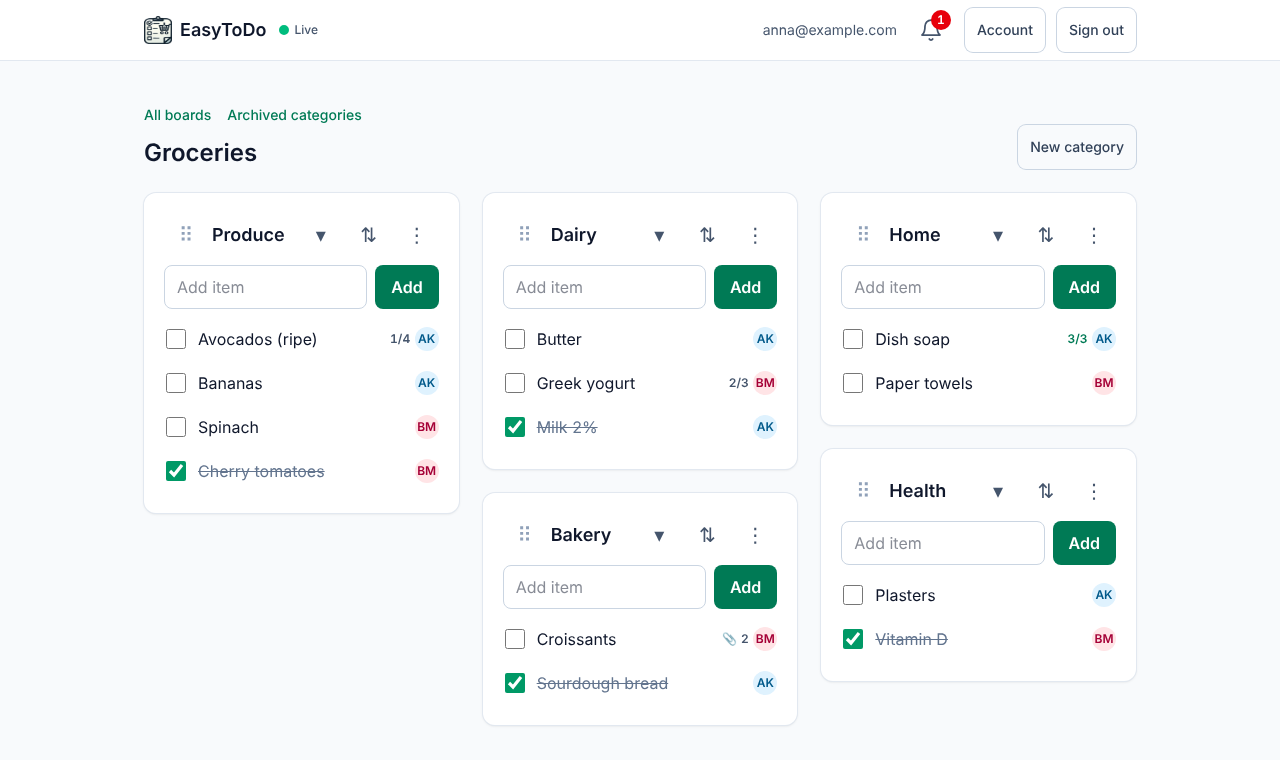
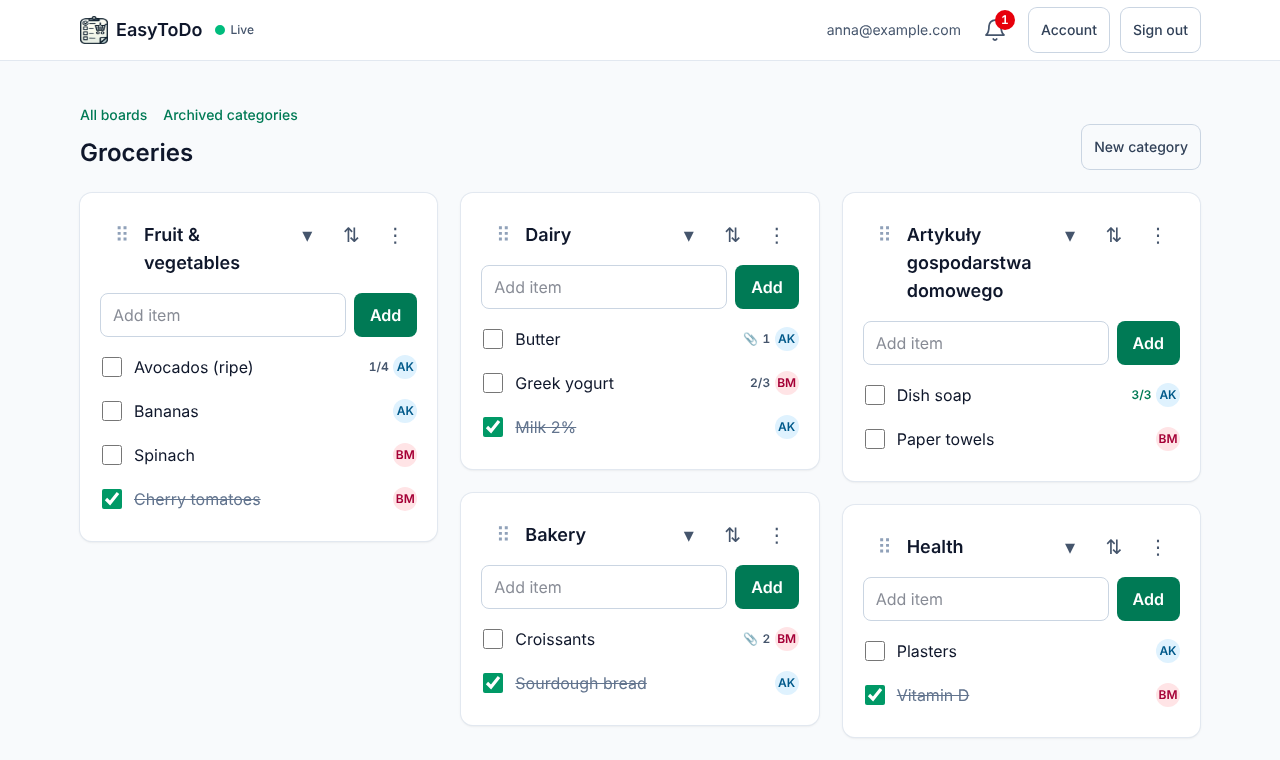
docs: correct the v2.1 checklist and limits; the upgrade test cleans up after a failed upgrade
- README: checklist step 13 (the owner's earlier items show the owner's circle
  once the board is shared), step 12 is self-contained; "Upgrading" item 6
  quotes the labels of the templates; the intro no longer reads as if v2.1 were
  the rewrite; the panel lists the newest 20 notifications; a checklist has up
  to 100 entries
- .env.example: the invite page is "Invite and members"
- performance.md: the spread of single runs is stated from the tables;
  sign-ups are limited per client IP address
- screenshots: a paperclip on the phone, longer category names on the desktop
- test_models: the v2.0 upgrade test leaves the shared database at head and
  empty even when 0002 cannot take the data
- test_docs: a setting needs a row of the Configuration table
- test_bench: all four failing steps of joining by invite are tested

Claude-Session: https://claude.ai/code/session_01DN6U6VMVrbyGTnmug7RrAg

diff --git a/backend/tests/test_bench.py b/backend/tests/test_bench.py
@@ -337,10 +337,14 @@ async def test_v2_event_latencies_name_the_board_and_item_on_a_timeout(monkeypat
 
 
 def _realistic_handler(
-    *, invite_form: dict, attachments: list[httpx.Request], accept_status: int = 303
+    *,
+    invite_form: dict,
+    attachments: list[httpx.Request],
+    answers: dict[tuple[str, str], httpx.Response] | None = None,
 ):
     """One server stub for the owner's, the second and the member's client: board 7 whose items
-    are numbered in the order they were added, the invite page of ``/invite/tok``."""
+    are numbered in the order they were added, the invite page of ``/invite/tok``. ``answers``
+    replaces the answer to a (method, path)."""
     sessions = iter(f"session-{n}" for n in range(1, 100))
     items: list[int] = []
 
@@ -350,13 +354,15 @@ def _realistic_handler(
         if request.method == "POST":  # what the browser sends on every change
             assert request.headers.get("x-csrf-token") == "csrf" or path in ("/login", "/register")
             assert request.headers["origin"] == "http://bench.test"
+        if answers and route in answers:
+            return answers[route]
         if route in {("GET", "/login"), ("GET", "/register")}:
             return httpx.Response(200, headers={"set-cookie": "easytodo_csrf=csrf; Path=/"})
         if route in {("POST", "/login"), ("POST", "/register")}:
             cookie = f"easytodo_session={next(sessions)}; Path=/"
             return httpx.Response(303, headers={"location": "/", "set-cookie": cookie})
         if route == ("POST", "/invite/tok/accept"):
-            return httpx.Response(accept_status, headers={"location": "/boards/7"})
+            return httpx.Response(303, headers={"location": "/boards/7"})
         if route == ("POST", "/boards"):
             return httpx.Response(303, headers={"location": "/boards/7"})
         if route == ("POST", "/boards/7/invites"):
@@ -440,8 +446,37 @@ async def test_v2_realistic_seed_shares_the_board_and_adds_checklists_and_attach
     assert attachments[0].headers["x-csrf-token"] == "csrf"
 
 
-async def test_v2_realistic_seed_names_the_failed_step_when_joining(monkeypatch):
-    handler = _realistic_handler(invite_form={}, attachments=[], accept_status=403)
+@pytest.mark.parametrize(
+    ("route", "answer", "message"),
+    [
+        pytest.param(
+            ("GET", "/register"),
+            httpx.Response(500),
+            r"Joining by invite: opening the sign-up page failed: HTTP 500",
+            id="sign-up page",
+        ),
+        pytest.param(
+            ("POST", "/register"),
+            httpx.Response(400),
+            r"Joining by invite: signing up failed: HTTP 400",
+            id="signing up",
+        ),
+        pytest.param(
+            ("POST", "/boards/7/invites"),
+            httpx.Response(201, text="<p>No link here</p>"),
+            r"The invite page shows no invite link",
+            id="no invite link",
+        ),
+        pytest.param(
+            ("POST", "/invite/tok/accept"),
+            httpx.Response(403),
+            r"Joining by invite: accepting the invite failed: HTTP 403",
+            id="accepting",
+        ),
+    ],
+)
+async def test_v2_realistic_seed_names_the_failed_step_when_joining(route, answer, message):
+    handler = _realistic_handler(invite_form={}, attachments=[], answers={route: answer})
     owner, _ = _recording_client(handler)
     second, _ = _recording_client(handler)
     member, _ = _recording_client(handler)
@@ -449,7 +484,7 @@ async def test_v2_realistic_seed_names_the_failed_step_when_joining(monkeypatch)
         target = bench.V2Target(
             owner, second, email="b@example.com", password="pw", member_client=member
         )
-        with pytest.raises(RuntimeError, match=r"accepting the invite.*HTTP 403"):
+        with pytest.raises(RuntimeError, match=f"^{message}$"):
             await target.seed(categories=1, items=2)
 
 

diff --git a/backend/tests/test_models.py b/backend/tests/test_models.py
@@ -490,5 +490,10 @@ async def test_upgrade_from_0001_keeps_v2_0_data(db, _db_engine: AsyncEngine):
         await asyncio.to_thread(command.upgrade, cfg, "head")
         assert await _count(db, Item) == 3
     finally:
-        await db.rollback()
+        # Whatever failed, leave the shared database at head and empty: if 0002 could not take the
+        # v2.0 rows, the upgrade fails again on them and every later test would find 0001 and
+        # these rows. At 0001 every table hangs from users or boards, so this empties them all.
+        await db.rollback()  # an open transaction would block the TRUNCATE and the ALTER
+        async with _db_engine.begin() as conn:
+            await conn.execute(text("TRUNCATE users, boards RESTART IDENTITY CASCADE"))
         await asyncio.to_thread(command.upgrade, cfg, "head")

diff --git a/backend/tests/test_docs.py b/backend/tests/test_docs.py
@@ -1,6 +1,7 @@
 """The documentation keeps up with the code: a setting nobody can read about is a setting nobody
 sets."""
 
+import re
 from pathlib import Path
 
 from easytodo.config import Settings
@@ -13,5 +14,6 @@ def test_every_setting_is_in_the_readme_and_env_example():
     env_example = (ROOT / ".env.example").read_text()
     for name in Settings.model_fields:
         variable = f"EASYTODO_{name.upper()}"
-        assert f"`{variable}`" in readme, f"README.md has no row for `{variable}`"
+        row = rf"^\| `{re.escape(variable)}` \|"  # a row of the Configuration table
+        assert re.search(row, readme, re.MULTILINE), f"README.md has no row for `{variable}`"
         assert f"{variable}=" in env_example, f".env.example has no line for {variable}="

diff --git a/README.md b/README.md
@@ -5,10 +5,10 @@ boards can be shared, and a change made on one phone shows up on every other ope
 moment, without reloading. It runs on your own server or home computer with docker compose, and
 works on a home network without internet access.
 
-This is v2.1 of EasyToDo v2, a rewrite of the original single-list Flask app as a multi-user
-FastAPI + HTMX app. Coming from v1? See [docs/migration-from-v1.md](docs/migration-from-v1.md).
-Updating from v2.0? See [What's new in v2.1](#whats-new-in-v21) and
-[Upgrading from v2.0](#upgrading-from-v20).
+This is EasyToDo v2.1, the second release of the v2 rewrite of the original single-list Flask
+app as a multi-user FastAPI + HTMX app. Coming from v1? See
+[docs/migration-from-v1.md](docs/migration-from-v1.md). Updating from v2.0? See
+[What's new in v2.1](#whats-new-in-v21) and [Upgrading from v2.0](#upgrading-from-v20).
 
 <p align="center">
   <img src="docs/images/board-phone.png" alt="A grocery board on a phone" width="260">
@@ -89,10 +89,10 @@ v2.1 adds these to v2.0, in this order:
    one member looks as before. Account → "Display name" is optional and defaults to the part of
    the email before the @.
 7. **Notifications.** The bell next to Admin, Account and Sign out counts the unread ones, and the
-   panel updates without reloading. It shows the last 30 days: someone joined your board or left
-   it; you were removed from a board, or your role on it changed; the owner archived or restored
-   a board you belong to; someone moved a category to or from a board you share. There are none
-   about items, no mails and no push messages.
+   panel updates without reloading. It lists the newest 20 of the last 30 days: someone joined
+   your board or left it; you were removed from a board, or your role on it changed; the owner
+   archived or restored a board you belong to; someone moved a category to or from a board you
+   share. There are none about items, no mails and no push messages.
 8. **"New category" dialog.** The button opens a dialog with the name and "On top" or "At the
    bottom" (the default), and the cursor then goes to "Add item" in the new category. The form at
    the bottom of the board is gone. It works the same on a phone and on a desktop.
@@ -111,10 +111,10 @@ v2.1 adds these to v2.0, in this order:
     `EASYTODO_ATTACHMENTS_TOTAL_BYTES`). The files live in their own docker volume, `attachments`,
     not in the database, and every download goes through the app, which checks the board access.
     The volume belongs in the backup ([Backup and restore](#backup-and-restore)).
-11. **Checklists.** An item's details can hold a checklist: entries to tick, edit, delete and drag
-    into another order. The item's tile shows a counter such as "5/20", which turns green when
-    every entry is ticked. All of it updates live. Ticking the last entry does not tick the item:
-    you do that yourself.
+11. **Checklists.** An item's details can hold a checklist of up to 100 entries to tick, edit,
+    delete and drag into another order. The item's tile shows a counter such as "5/20", which
+    turns green when every entry is ticked. All of it updates live. Ticking the last entry does
+    not tick the item: you do that yourself.
 
 Also changed since v2.0, from its review: rate limits count an IPv6 address by its /64 network,
 password guesses on the account pages are limited per account, and an account gets at most 3
@@ -149,8 +149,10 @@ the `attachments` volume creates itself. In order:
    archived boards kept longer, or forever, sets it there.
 6. **What looks different.** Existing items have no author, so they show no initials; items
    added from now on do, on boards with more than one member. Every account starts with the old
-   sort order (open items first, then by name) and no display name. "Delete board" and "Delete
-   category" are "Archive", and "Members" is "Invite and members" in the ⋮ menu of the board list.
+   sort order (open items first, then by name) and no display name. "Delete board" is "Archive" in
+   the board's ⋮ menu on the board list, "Delete category" is "Archive category" in the
+   category's ⋮ menu, and "Members" is now the page "Invite and members" (⋮ on the board list →
+   "Invite").
 
 **Going back to v2.0.** Stop the app, bring the database back to the v2.0 schema with the
 v2.1 image, then start v2.0:
@@ -284,19 +286,24 @@ browsers, or a normal and a private window, each signed in as someone else.
 11. **My boards and Shared with me.** The owner's list has the section "My boards", and a board
     that Bob has joined carries the badge "Shared". Bob's list has "Shared with me", where the
     board shows the owner's email and Bob's role.
-12. **Move a category to another board.** As the owner, make a second board "Party" with a
-    category "Dairy", and give "Dairy" on "Groceries" a few items, a checklist and a file
-    (steps 17 and 18). Open the category's ⋮ menu on "Groceries" → "Move to board…", pick "Party"
-    and choose "Move". The dialog says "That board already has a category with this name." and
-    fills in "Dairy (2)"; choose "Move" again. The category is the last one on "Party", with its
-    items, checklist and files, and "Groceries" no longer has it. Have both boards open in two
-    browsers: both change without reloading. Bob's dialog lists only the boards where he is an
-    editor or the owner, and he can move a category only from a board where he is an editor.
+12. **Move a category to another board.** As the owner, take the board you shared with Bob as an
+    editor (step 4); it is called "Groceries" here. Give it a category "Dairy" with a few items,
+    a checklist on one of them and a file on another (steps 17 and 18), and make a second board
+    "Party" with a category "Dairy" as well. Open the category's ⋮ menu on "Groceries" → "Move
+    to board…", pick "Party" and choose "Move". The dialog says "That board already has a
+    category with this name." and fills in "Dairy (2)"; choose "Move" again. The category is the
+    last one on "Party", with its items, checklist and files, and "Groceries" no longer has it.
+    Have both boards open in two browsers: both change without reloading. Bob's dialog lists only
+    the boards where he is an editor or the owner, and he can move a category only from a board
+    where he is an editor.
 13. **Who added an item.** On the board shared with Bob, add an item as Bob: a coloured circle
-    with his initials ("B" for bob@example.com) shows on it for both of you. Items from before the
-    board was shared, and every item on a board with one member, have none. Open the item: it
-    says "Added by bob" with the date, and when it was last modified. Bob sets Account →
-    "Display name" to "Bob Marley" and chooses "Save name": the circle reads "BM".
+    with his initials ("B" for bob@example.com) shows on it for both of you. Your own items on
+    that board, including the ones you added before sharing it, show your circle as well. Open
+    the item: it says "Added by bob" with the date, and when it was last modified. Bob sets
+    Account → "Display name" to "Bob Marley" and chooses "Save name": the circle reads "BM".
+    Remove Bob (step 4) and the board has one member again: no item shows a circle, and the
+    details say only "Added" with the date. Items from before v2.1 have no author and never show
+    one ([Upgrading from v2.0](#upgrading-from-v20), step 6).
 14. **Notifications.** As the owner, watch the bell in the header while Bob joins a board by an
     invite link (step 4): its counter goes up without reloading, and the panel says that Bob
     joined. Bob leaves the board: another notification. Change Bob's role, as the owner, and the

diff --git a/docs/performance.md b/docs/performance.md
@@ -7,9 +7,12 @@ same machine, with the same seed (20 categories x 30 items) and 200 measured req
 v2.1 must not be slower than v2.0. The acceptance criterion: for the same three scenarios, the
 median of the p95 of 3 runs of v2.1 is at most the median of the p95 of 3 runs of v2.0 (the tag
 `v2.0.0`) plus 5%, both measured on the same machine in the same session, one after the other, with
-the same seed and request count and with the `scripts/bench.py` of v2.1 for both. The 5% allows
-for the spread between runs of v2.0, which reaches about 3% at p95 in the v2 result below. That
-result is not the baseline of v2.1: it was measured on another machine, by another method.
+the same seed and request count and with the `scripts/bench.py` of v2.1 for both. The 5% is a
+margin on top of the median, not an estimate of the noise between runs, which is larger: in the
+v2.1 result below the p95 of a single run of v2.0 is up to 5% from the median of its three runs on
+view_board and up to 12% on add_item and toggle_item (the highest and the lowest run differ by 6%,
+20% and 19%). That is why the medians of 3 runs are compared, never single runs. The v2 result
+further down is not the baseline of v2.1: it was measured on another machine, by another method.
 
 ## v2.1 result
 
@@ -165,8 +168,8 @@ empty for its runs to compare. v2 starts empty to match.
 the page. A second account, `bench-member-<run>@example.com` with the same password, joins the board
 as an editor through an invite link and adds every other item, so each item shows its author's
 initials. Then every 10th item gets 5 checklist entries and a small text file (`note.txt`). The
-scenarios are the same. The sign-up is limited to 10 an hour per address, and counts: start every
-realistic run on a fresh app (a restarted container does).
+scenarios are the same. The sign-up is limited to 10 an hour per client IP address, and counts:
+start every realistic run on a fresh app (a restarted container does).
 
 ### v2
 
